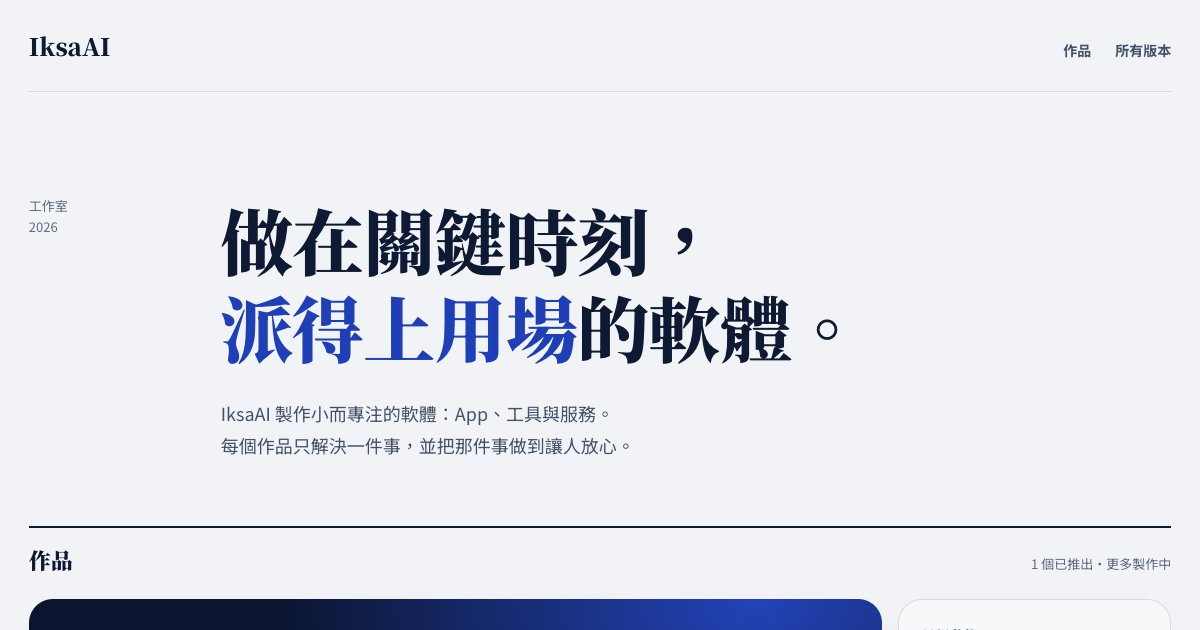
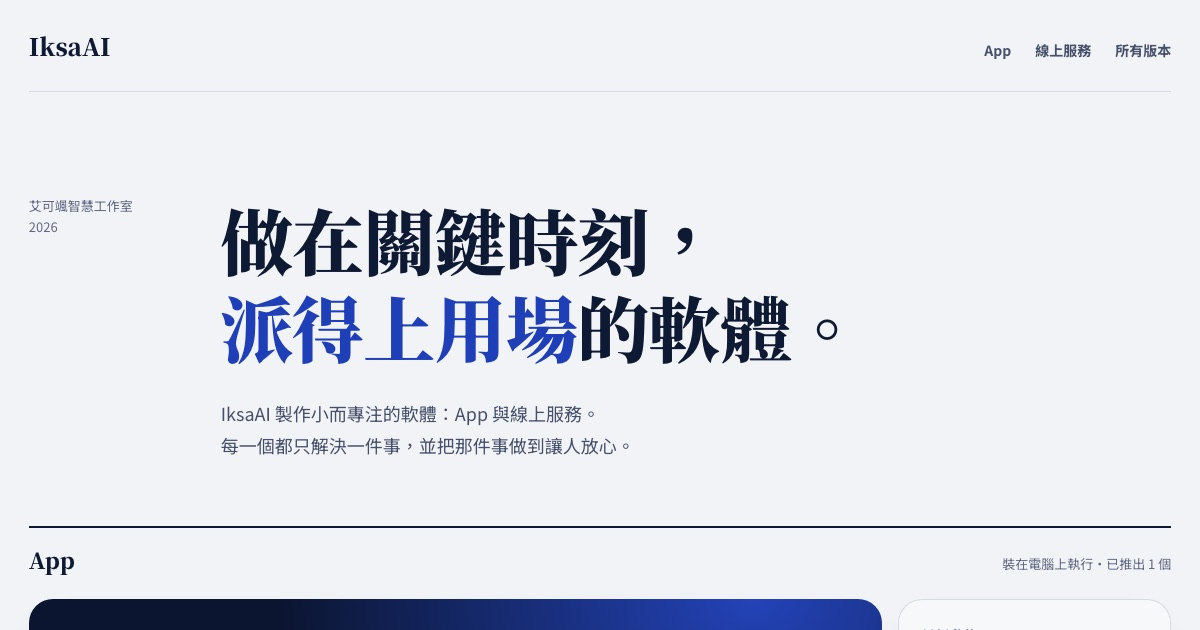
feat: name the studio and split the home page into App and 線上服務
The home page put a 「關於工作室」 tile inside the works grid, and its
text was really about downloads, so the page read as works above and
studio below. Words like 作品 or 產品 also don't fit: some of what
IksaAI ships is practice work shared for free, not something for sale.

The studio is now named 艾可颯智慧工作室 (title, hero label, footers),
and the home page drops the umbrella noun altogether: an App section
(installed programs; EQalert, news, download notes, 更多 App 製作中)
and a 線上服務 section (anything not running locally), which holds a
製作中 placeholder until the first service exists. The misplaced tile
becomes 「下載與安裝」 with the first-launch notarization note, the
repeated 「更多製作中」 and GitHub Releases lines are gone, and og.jpg
is re-shot from the new page.

diff --git a/site/index.html b/site/index.html
@@ -5,15 +5,15 @@
   <meta name="viewport" content="width=device-width, initial-scale=1">
   <meta http-equiv="Content-Security-Policy" content="default-src 'self'; style-src 'self' https://fonts.googleapis.com; font-src https://fonts.gstatic.com; img-src 'self' data:; script-src 'self'; object-src 'none'; base-uri 'self'; form-action 'none'">
   <meta name="referrer" content="strict-origin-when-cross-origin">
-  <title>IksaAI 工作室</title>
-  <meta name="description" content="IksaAI 製作小而專注的軟體：App、工具與服務。這裡有每個作品的介紹、下載與版本紀錄。">
+  <title>艾可颯智慧工作室 IksaAI</title>
+  <meta name="description" content="艾可颯智慧工作室（IksaAI）製作小而專注的軟體：App 與線上服務。這裡有每一個的介紹、下載與版本紀錄。">
   <meta name="theme-color" content="#F1F3F6" media="(prefers-color-scheme: light)">
   <meta name="theme-color" content="#0A0F1D" media="(prefers-color-scheme: dark)">
   <link rel="icon" href="assets/favicon.svg" type="image/svg+xml">
   <link rel="apple-touch-icon" href="assets/apple-touch-icon.png">
   <meta property="og:type" content="website">
   <meta property="og:site_name" content="IksaAI">
-  <meta property="og:title" content="IksaAI 工作室">
+  <meta property="og:title" content="艾可颯智慧工作室 IksaAI">
   <meta property="og:description" content="做在關鍵時刻，派得上用場的軟體。">
   <meta property="og:image" content="https://iksaai.github.io/assets/og.jpg">
   <meta property="og:url" content="https://iksaai.github.io/">
@@ -31,7 +31,8 @@
       <a class="wordmark" href="./">IksaAI</a>
       <nav aria-label="主要導覽">
         <ul>
-          <li><a href="#works">作品</a></li>
+          <li><a href="#apps">App</a></li>
+          <li><a href="#services">線上服務</a></li>
           <li><a href="{{releasesUrl}}">所有版本</a></li>
         </ul>
       </nav>
@@ -40,17 +41,17 @@
 
   <main id="main" class="wrap">
     <section class="manifesto" aria-labelledby="manifesto-title">
-      <p class="issue">工作室<br>2026</p>
+      <p class="issue">艾可颯智慧工作室<br>2026</p>
       <div>
         <h1 id="manifesto-title">做在關鍵時刻，<br><em>派得上用場</em>的軟體。</h1>
-        <p class="lede">IksaAI 製作小而專注的軟體：App、工具與服務。<br>每個作品只解決一件事，並把那件事做到讓人放心。</p>
+        <p class="lede">IksaAI 製作小而專注的軟體：App 與線上服務。<br>每一個都只解決一件事，並把那件事做到讓人放心。</p>
       </div>
     </section>
 
-    <section id="works" class="works" aria-labelledby="works-title">
+    <section id="apps" class="works" aria-labelledby="apps-title">
       <header class="works-head">
-        <h2 id="works-title">作品</h2>
-        <p>{{workCount}} 個已推出・更多製作中</p>
+        <h2 id="apps-title">App</h2>
+        <p>裝在電腦上執行・已推出 {{workCount}} 個</p>
       </header>
       <div class="bento">
 {{featured}}
@@ -60,20 +61,33 @@
 {{news}}
           </ul>
         </aside>
-        <aside class="tile about" aria-labelledby="about-title">
-          <h3 id="about-title" class="label">關於工作室</h3>
-          <p>每個作品都有自己的介紹頁、下載和版本紀錄。安裝檔都放在 GitHub Releases，可以看到每一版改了什麼。</p>
+        <aside class="tile install" aria-labelledby="install-title">
+          <h3 id="install-title" class="label">下載與安裝</h3>
+          <p>安裝檔都放在 GitHub Releases，每一版都附上更新內容。Mac App 還沒經過 Apple 公證，第一次打開要手動允許一次，步驟寫在各 App 的介紹頁。</p>
           <a href="{{releasesUrl}}">在 GitHub 上看所有版本 →</a>
         </aside>
 {{works}}
+      </div>
+    </section>
+
+    <section id="services" class="works" aria-labelledby="services-title">
+      <header class="works-head">
+        <h2 id="services-title">線上服務</h2>
+        <p>不用安裝，連上網路就能用</p>
+      </header>
+      <div class="bento">
+        <div class="tile soon span-4">
+          <span class="placeholder" aria-hidden="true"></span>
+          <div><p class="label">製作中</p><h3>第一個線上服務</h3></div>
+        </div>
       </div>
     </section>
   </main>
 
   <div class="wrap">
     <footer class="site-footer">
-      <p>© 2026 IksaAI</p>
-      <p>安裝檔都放在 GitHub Releases</p>
+      <p>© 2026 艾可颯智慧工作室 IksaAI</p>
+      <p><a href="https://github.com/IksaAI">GitHub</a></p>
     </footer>
   </div>
 </body>

diff --git a/site/assets/studio.css b/site/assets/studio.css
@@ -22,7 +22,7 @@
   --focus: #1E3FB8;
   --tile: color-mix(in srgb, var(--paper) 55%, #fff);
 
-  /* 主打作品的深色舞台 */
+  /* 精選 App 的深色舞台 */
   --stage: #0B1530;
   --stage-glow: #2343B8;
   --stage-ink: #F4F1EA;
@@ -223,7 +223,12 @@ a {
   color: var(--ink-2);
 }
 
-/* ---------- 作品 ---------- */
+/* ---------- App 與線上服務 ---------- */
+
+.works + .works {
+  margin-top: clamp(3rem, 2rem + 3vw, 4.5rem);
+}
+
 
 .works-head {
   display: flex;
@@ -273,7 +278,7 @@ a {
   border-radius: var(--radius-icon);
 }
 
-/* 主打作品：深色舞台大格 */
+/* 精選 App：深色舞台大格 */
 .feature {
   grid-column: span 3;
   grid-row: span 2;
@@ -423,26 +428,26 @@ a {
   color: var(--ink-3);
 }
 
-/* 關於工作室 */
-.about {
+/* 下載與安裝 */
+.install {
   display: flex;
   flex-direction: column;
   justify-content: space-between;
   gap: 1rem;
 }
 
-.about p {
+.install p {
   font-size: 0.9375rem;
   color: var(--ink-2);
 }
 
-.about a {
+.install a {
   font-size: var(--text-small);
   font-weight: 700;
   text-decoration-color: var(--accent);
 }
 
-/* 其他作品 */
+/* 其他 App */
 .work {
   display: flex;
   flex-direction: column;

diff --git a/site/eqalert/index.html b/site/eqalert/index.html
@@ -209,7 +209,7 @@
       <p>中央氣象署、ExpTech、日本氣象廳、P2P地震情報、印尼氣象氣候及地球物理局（BMKG）。</p>
     </div>
     <p class="disclaimer">EQalert 不是官方的地震速報系統。資料僅供參考，實際狀況請以各國官方機關發布為準。</p>
-    <p class="copyright">© 2026 <a href="../">IksaAI</a>・<a href="../#works">更多作品</a></p>
+    <p class="copyright">© 2026 <a href="../">艾可颯智慧工作室 IksaAI</a>・<a href="../#apps">更多 App</a></p>
   </footer>
 </body>
 </html>

diff --git a/templates/feature.html b/templates/feature.html
@@ -1,6 +1,6 @@
 <article class="tile feature" aria-labelledby="feature-title">
   <div class="feature-copy">
-    <p class="label">No. {{no}}・主打作品</p>
+    <p class="label">No. {{no}}・精選</p>
     <img class="icon" src="{{icon}}" width="68" height="68" alt="">
     <h3 id="feature-title">{{name}}<small>{{subtitle}}</small></h3>
     <p class="tagline">{{tagline}}</p>

diff --git a/templates/soon.html b/templates/soon.html
@@ -1,4 +1,4 @@
 <div class="tile soon span-{{span}}">
   <span class="placeholder" aria-hidden="true"></span>
-  <div><p class="label">No. {{no}}</p><h3>更多作品製作中</h3></div>
+  <div><p class="label">No. {{no}}</p><h3>更多 App 製作中</h3></div>
 </div>
